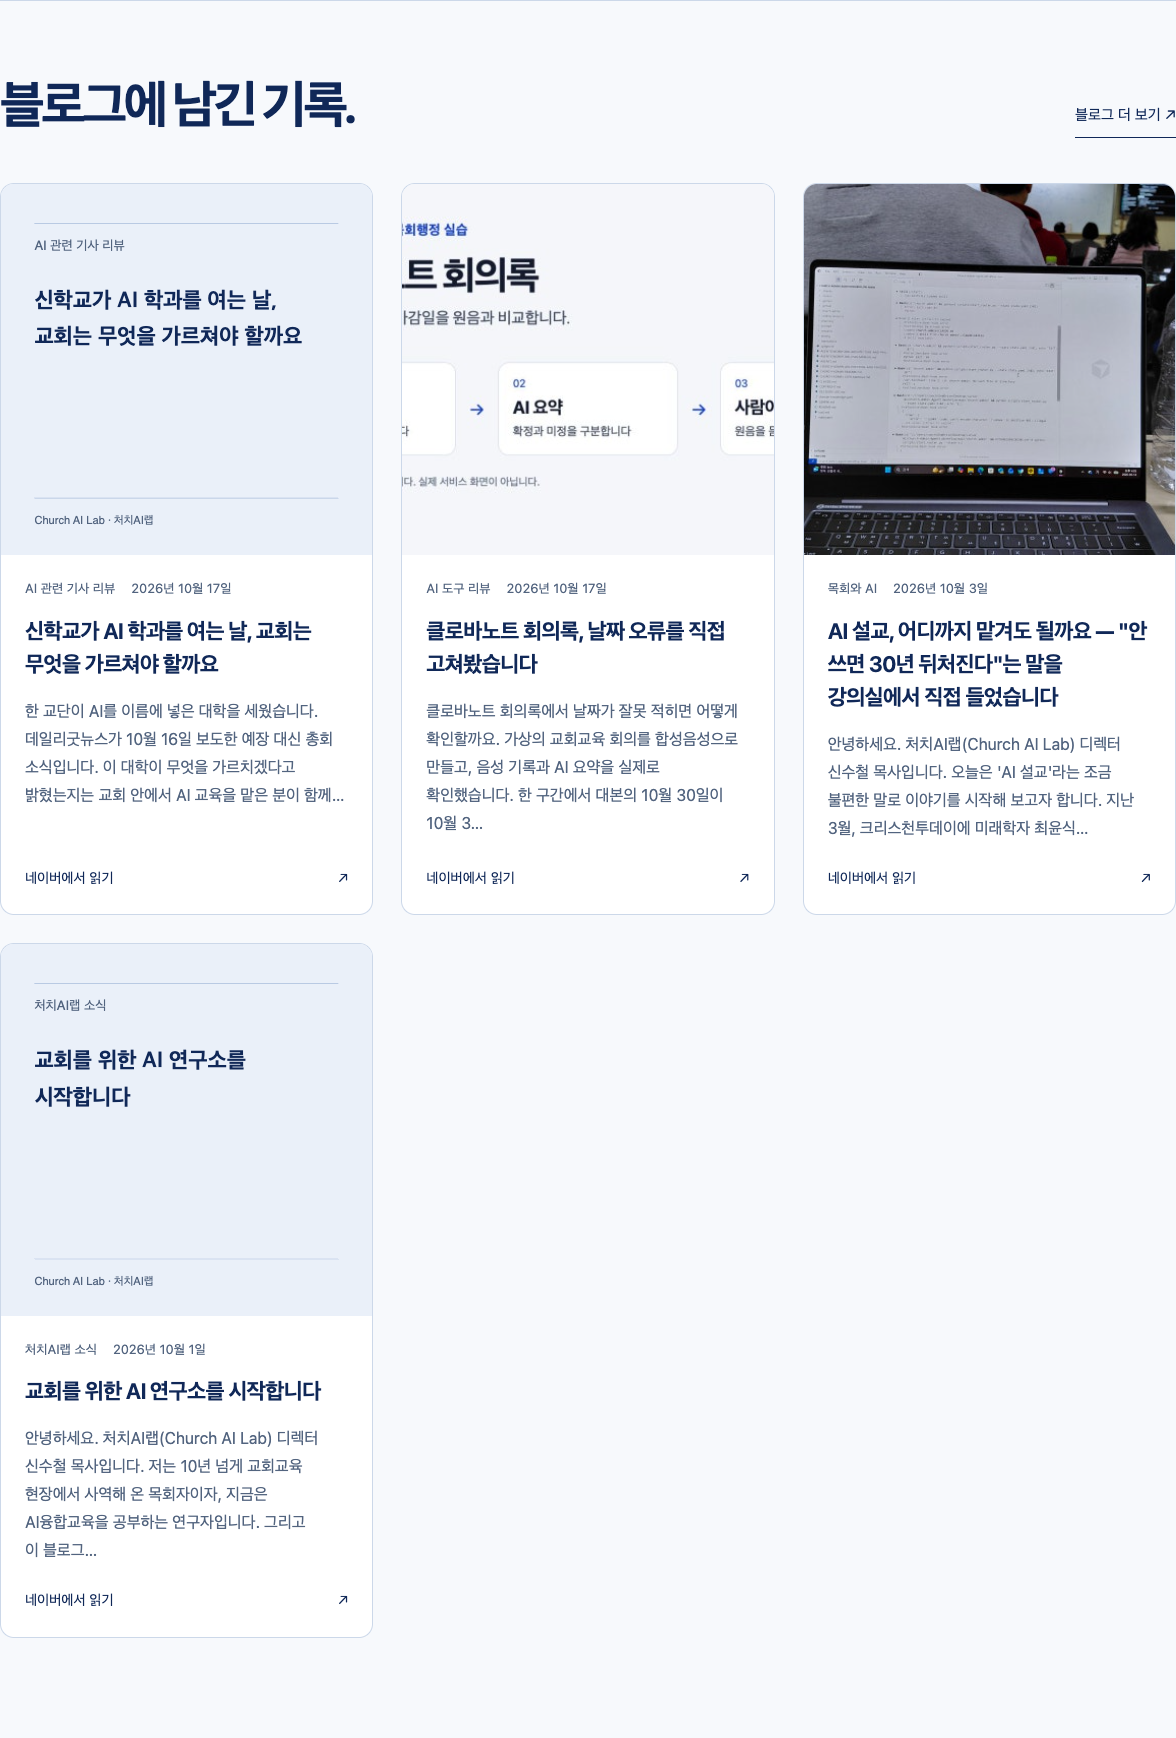
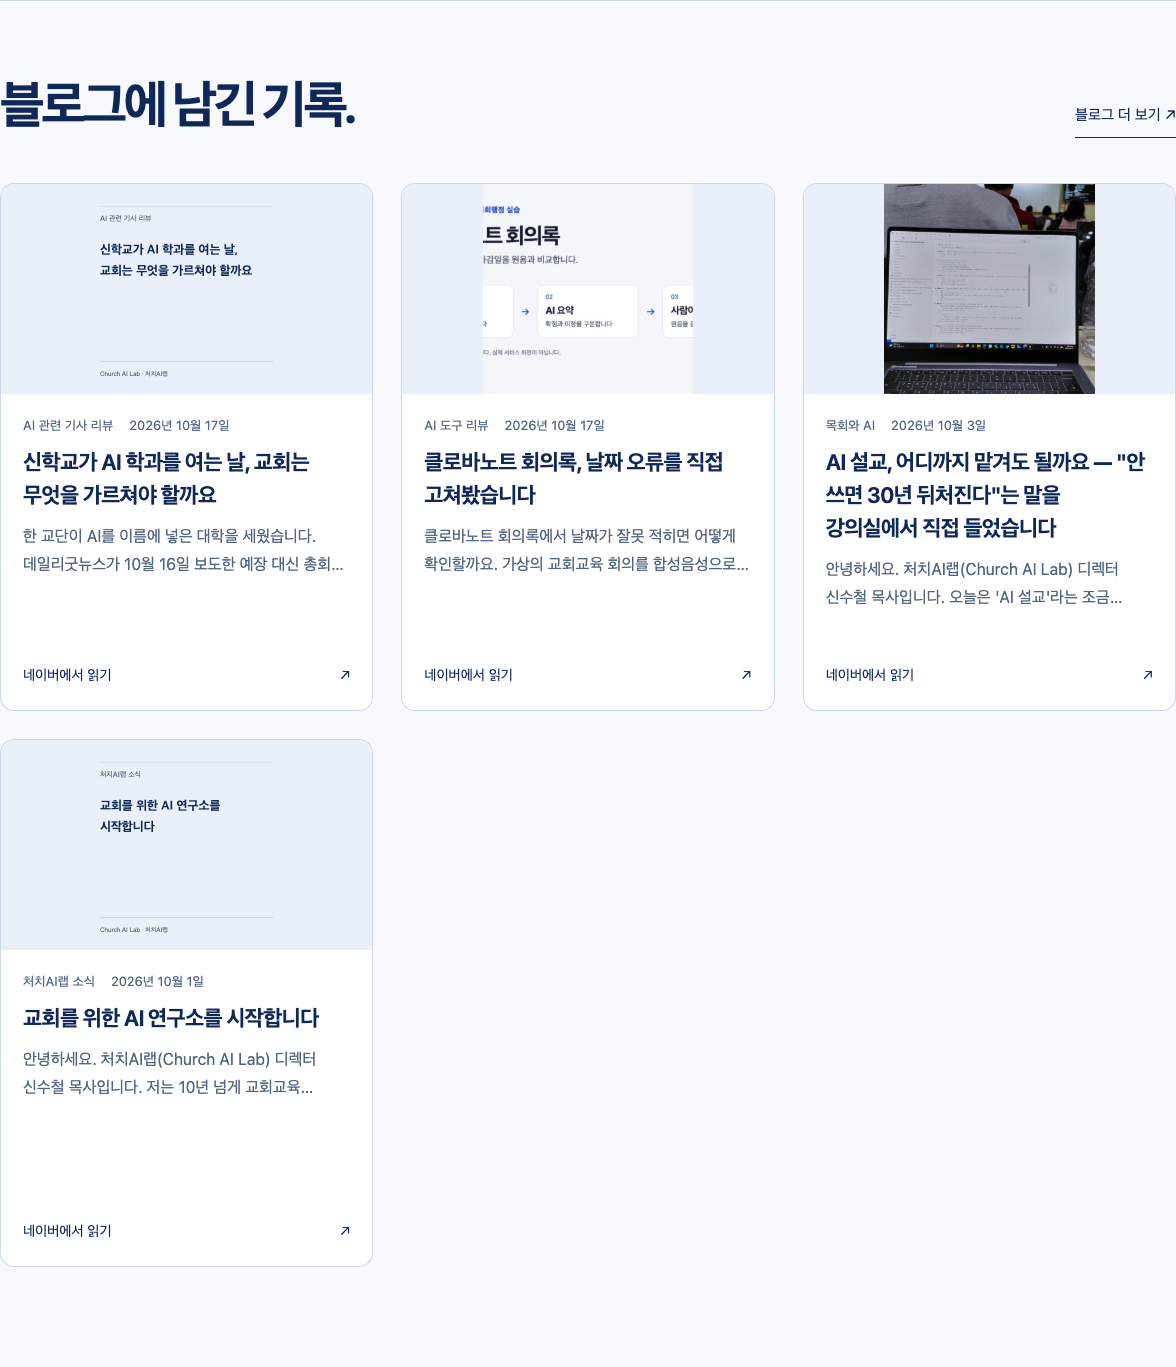
Set blog cards to A4 portrait with a 2:3 image and text split

diff --git a/src/assets/motion-demo.css b/src/assets/motion-demo.css
@@ -87,20 +87,22 @@
 
 /* Naver feed: image-led posts retain the shared Studio palette and type. */
 .blog-grid{display:grid;grid-template-columns:repeat(3,minmax(0,1fr));gap:28px}
-.blog-card{min-width:0;background:var(--paper);border:1px solid var(--line);border-radius:14px;overflow:hidden}
-.blog-card>a{display:flex;flex-direction:column;height:100%;color:var(--ink);text-decoration:none}
+.blog-card{aspect-ratio:210 / 297;container-type:inline-size;min-width:0;background:var(--paper);border:1px solid var(--line);border-radius:14px;overflow:hidden}
+.blog-card>a{display:grid;grid-template-rows:minmax(0,2fr) minmax(0,3fr);height:100%;min-height:0;color:var(--ink);text-decoration:none}
 .blog-card>a:focus-visible{outline:3px solid var(--action);outline-offset:-4px}
-.blog-cover{aspect-ratio:1;background:var(--mint);overflow:hidden}
+.blog-cover{min-height:0;background:var(--mint);overflow:hidden}
 .blog-cover img{display:block;width:100%;height:100%;object-fit:contain;transition:transform .25s ease-out}
 .blog-card>a:hover .blog-cover img{transform:scale(1.025)}
-.blog-card-copy{padding:24px;display:flex;flex:1;flex-direction:column;gap:16px}
+.blog-card-copy{min-height:0;min-width:0;padding:22px;display:grid;grid-template-rows:auto auto minmax(0,1fr) auto;gap:10px}
 .blog-meta{display:flex;flex-wrap:wrap;gap:6px 16px;font-size:13px;color:var(--muted);line-height:1.5}
-.motion-demo .blog-card h3{font-size:22px;line-height:1.5;letter-spacing:-.025em;margin:0;word-break:keep-all;overflow-wrap:break-word;text-wrap:pretty}
-.blog-card-copy p{font-size:16px;line-height:1.75;color:var(--muted);margin:0;word-break:keep-all;overflow-wrap:break-word;text-wrap:pretty}
-.blog-read{display:flex;justify-content:space-between;gap:20px;margin-top:auto;padding-top:8px;font-size:14px}
+.motion-demo .blog-card h3{font-size:22px;line-height:1.5;letter-spacing:-.025em;margin:0;word-break:keep-all;overflow-wrap:break-word;text-wrap:pretty;display:-webkit-box;-webkit-box-orient:vertical;-webkit-line-clamp:3;overflow:hidden}
+.blog-card-copy p{align-self:start;display:-webkit-box;-webkit-box-orient:vertical;-webkit-line-clamp:2;overflow:hidden;min-height:0;font-size:16px;line-height:1.75;color:var(--muted);margin:0;word-break:keep-all;overflow-wrap:break-word;text-wrap:pretty}
+.blog-read{grid-row:4;display:flex;justify-content:space-between;gap:20px;margin-top:0;padding-top:0;font-size:14px}
 @media(max-width:1000px){.blog-grid{grid-template-columns:repeat(2,minmax(0,1fr));gap:22px}}
-@media(max-width:600px){.blog-grid{grid-template-columns:minmax(0,1fr);gap:28px}.blog-card-copy{padding:22px}.studio-posts .section-intro{align-items:start;gap:16px;flex-direction:column}}
+@media(max-width:600px){.blog-grid{grid-template-columns:minmax(0,1fr);gap:28px}.blog-card-copy{padding:20px}.studio-posts .section-intro{align-items:start;gap:16px;flex-direction:column}}
 @media(prefers-reduced-motion:reduce){.blog-cover img{transition:none}.blog-card>a:hover .blog-cover img{transform:none}}
 
 /* Grid children may shrink when the reader enlarges Korean text. */
 .learning-steps>li{min-width:0;overflow-wrap:break-word}
+
+@container(max-width:320px){.blog-card-copy{padding:18px;gap:8px}.blog-card-copy p{display:none}}
